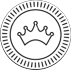
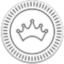
Imagens redimensionadas e correção do movimento da dama

diff --git a/src/com/damas/objetos/Tabuleiro.java b/src/com/damas/objetos/Tabuleiro.java
@@ -2,18 +2,15 @@ package com.damas.objetos;
 
 /**
  * O Tabuleiro do jogo. 
- * Responsável por armazenar as 64 casas.
- * 
- * @author Alan Moraes &lt;alan@ci.ufpb.br&gt;
- * @author Leonardo Villeth &lt;lvilleth@cc.ci.ufpb.br&gt;
+ * Responsável por armazenar as 64 casas e possuir a lógica das regras da partida.
  */
 public class Tabuleiro {
     
     public static final int MAX_LINHAS = 8;
     public static final int MAX_COLUNAS = 8;
  
-    private Jogador jogadorUm; // controla as pedras brancas
-    private Jogador jogadorDois; // controla as pedras vermelhas
+    private Jogador jogadorBranco; // controla as pedras brancas
+    private Jogador jogadorVermelho; // controla as pedras vermelhas
     private Casa[][] casas;
     private int jogada;
 
@@ -37,9 +34,11 @@ public class Tabuleiro {
         Pedra peca = origem.getPeca();
 
         // REGRAS DA PEÇA BRANCA
-        if (vezDe() == 1 && (peca.getTipo() == Peca.PEDRA_BRANCA || peca.getTipo() == Peca.PEDRA_BRANCA ) ) {
+        if (vezDe() == 1 && (peca.getTipo() == Peca.PEDRA_BRANCA || peca.getTipo() == Peca.DAMA_BRANCA ) ) {
             
             if (destino.getPeca() == null) {
+
+                // ENTRA NA REGRA DE MOVIMENTO DA PEÇA
                 if (peca.podeMover(destino)) {
                     peca.mover(destino);
                     if (podeTransformarParaDama(destino)) transformarPedraParaDama(destino);
@@ -49,7 +48,7 @@ public class Tabuleiro {
             } else {
                 if (podeComer(origem, destino)){
                     comerPeca(origem, destino);
-                    jogadorUm.addPonto();
+                    jogadorBranco.addPonto();
                     jogada++;
                 }
             }
@@ -59,6 +58,8 @@ public class Tabuleiro {
         if (vezDe() == 2 && (peca.getTipo() == Peca.PEDRA_VERMELHA || peca.getTipo() == Peca.DAMA_VERMELHA ) ) {
 
             if (destino.getPeca() == null) {
+                
+                // ENTRA NA REGRA DE MOVIMENTO DA PEÇA
                 if (peca.podeMover(destino)) {
                     peca.mover(destino);
                     jogada++;
@@ -67,7 +68,7 @@ public class Tabuleiro {
             } else {
                 if (podeComer(origem, destino)){
                     comerPeca(origem, destino);
-                    jogadorDois.addPonto();
+                    jogadorVermelho.addPonto();
                     jogada++;
                 }
             }
@@ -198,7 +199,7 @@ public class Tabuleiro {
             for (int y = 0; y < 3; y++) {
                 if((x % 2 == 0) && (y % 2 == 0)) {
                     Casa casa = getCasa(x, y);
-                    new Pedra(casa, Peca.PEDRA_BRANCA);
+                    new Dama(casa, Peca.DAMA_BRANCA);
                 }
                 else if ((x % 2 != 0) && (y % 2 != 0)){
                     Casa casa = getCasa(x, y);
@@ -233,20 +234,20 @@ public class Tabuleiro {
         return casas[x][y];
     }
 
-    public void setJogadorUm(Jogador jogador) {
-        jogadorUm = jogador;
+    public void setJogadorBranco(Jogador jogador) {
+        jogadorBranco = jogador;
     }
 
-    public void setJogadorDois(Jogador jogador) {
-        jogadorDois = jogador;
+    public void setJogadorVermelho(Jogador jogador) {
+        jogadorVermelho = jogador;
     }
 
-    public Jogador getJogadorUm() {
-        return jogadorUm;
+    public Jogador getJogadorBranco() {
+        return jogadorBranco;
     }
 
-    public Jogador getJogadorDois() {
-        return jogadorDois;
+    public Jogador getJogadorVermelho() {
+        return jogadorVermelho;
     }
 
     public int getJogada() {

diff --git a/src/com/damas/objetos/Dama.java b/src/com/damas/objetos/Dama.java
@@ -15,14 +15,17 @@ public class Dama extends Pedra{
      * @param destino
      * @return boolean. True se puder ser movida e false se não 
      */
+   @Override
     public boolean podeMover(Casa destino) {
+        int deltaX = Math.abs((destino.getX() - casa.getX()));
+        int deltaY = Math.abs((destino.getY() - casa.getY()));
 
-        int deltaY = destino.getY() - casa.getY();
-        int deltaX = destino.getX() - casa.getX();
- 
-        if (Math.abs(deltaY) == Math.abs(deltaX)) {
-            return true;
-        }
+        if (deltaX == deltaY) return true;
+
         return false;
+    }
+
+    public Casa temPecaParaComer(Casa destino) {
+        return destino;
     }
 }

diff --git a/src/com/damas/objetos/Jogo.java b/src/com/damas/objetos/Jogo.java
@@ -18,8 +18,8 @@ public class Jogo {
         jogadorDois = new Jogador("Jogador 2");
 
         tabuleiro.criarPecas();
-        tabuleiro.setJogadorUm(jogadorUm);
-        tabuleiro.setJogadorDois(jogadorDois);
+        tabuleiro.setJogadorBranco(jogadorUm);
+        tabuleiro.setJogadorVermelho(jogadorDois);
     }
 
     public int temGanhador() {
